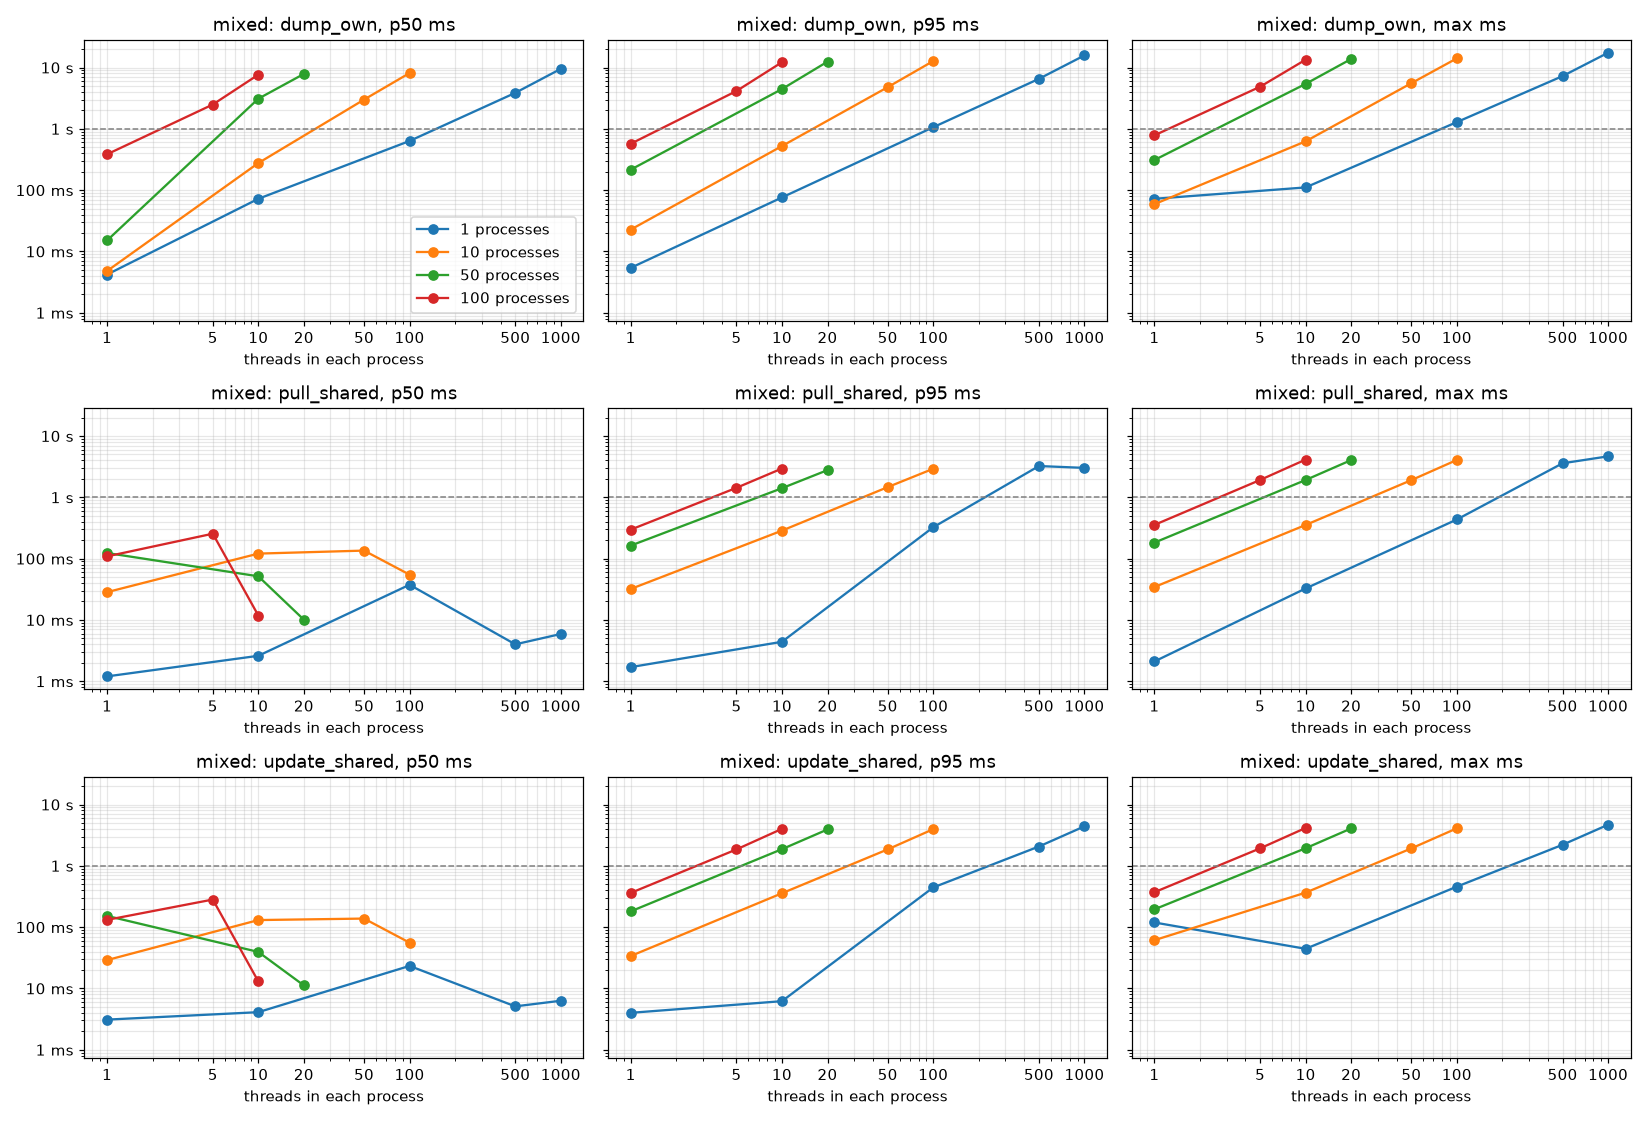
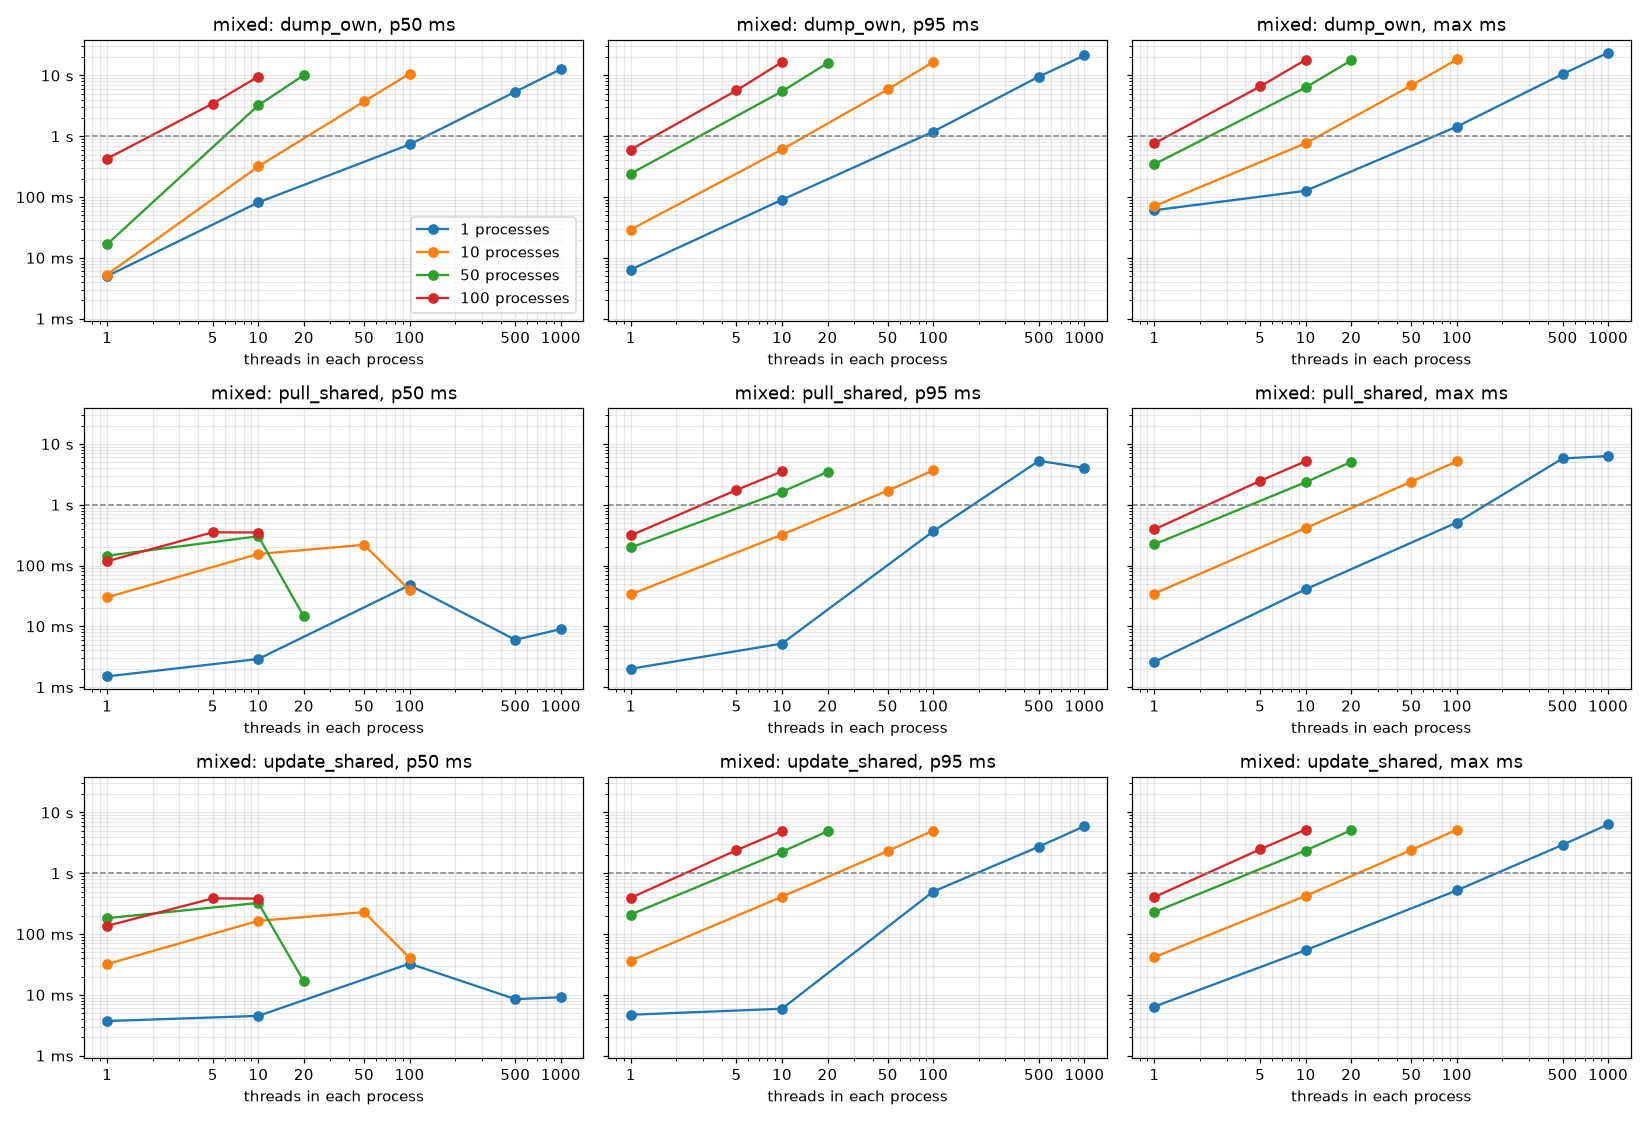
fixing and testing added

diff --git a/docs/source/benchmark.rst b/docs/source/benchmark.rst
@@ -5,7 +5,7 @@ The benchmark starts many processes, each running many threads, that all work on
 Every run checks the repository afterwards, and the integrity column reads OK when nothing was lost or corrupted.
 
 - pyrep 4.0.0, python 3.12.10, Darwin 25.3.0 x86_64
-- 16 logical processors, open file limit 12000
+- 16 logical processors, open file limit 1048576
 - One Repository instance per process; shared record of 2000 items
 - Date: 2026-10-21
 - ops/s counts every timed operation of the run. The latencies are per operation, in milliseconds.
@@ -75,21 +75,21 @@ read_same
 .. csv-table::
     :header: "processes", "threads each", "total threads", "operation", "operations", "wall s", "ops/s", "p50 ms", "p95 ms", "p99 ms", "max ms", "integrity"
 
-    1, 1, 1, pull_shared, 300, 0.7, 424, 1.2, 1.8, 2.1, 2.4, OK
-    1, 10, 10, pull_shared, 300, 0.6, 467, 20.0, 23.4, 25.7, 26.9, OK
-    1, 100, 100, pull_shared, 300, 0.7, 438, 214.3, 229.1, 246.1, 248.7, OK
-    1, 500, 500, pull_shared, 1500, 5.4, 276, 1153.0, 2771.0, 2967.0, 3069.0, OK
-    1, 1000, 1000, pull_shared, 3000, 120.4, 25, 2545.9, 113555.9, 114832.2, 115473.7, OK
-    10, 1, 10, pull_shared, 300, 0.6, 466, 20.4, 22.7, 23.4, 23.9, OK
-    10, 10, 100, pull_shared, 300, 0.6, 468, 204.8, 217.5, 227.6, 232.3, OK
-    10, 50, 500, pull_shared, 1500, 3.4, 436, 1129.4, 1162.0, 1178.7, 1213.4, OK
-    10, 100, 1000, pull_shared, 3000, 7.3, 413, 2397.2, 2450.5, 2459.0, 2527.2, OK
-    50, 1, 50, pull_shared, 300, 0.8, 386, 106.8, 116.1, 221.0, 229.1, OK
-    50, 10, 500, pull_shared, 1500, 3.5, 431, 1132.6, 1175.3, 1178.9, 1192.1, OK
-    50, 20, 1000, pull_shared, 3000, 7.3, 410, 2382.9, 2492.7, 2496.6, 2538.4, OK
-    100, 1, 100, pull_shared, 300, 1.0, 305, 238.2, 451.6, 488.7, 495.4, OK
-    100, 5, 500, pull_shared, 1500, 4.2, 353, 1378.5, 1403.9, 1411.7, 1413.4, OK
-    100, 10, 1000, pull_shared, 3000, 8.4, 357, 2703.2, 2950.8, 2957.1, 2985.2, OK
+    1, 1, 1, pull_shared, 300, 0.7, 406, 1.2, 1.9, 3.4, 7.6, OK
+    1, 10, 10, pull_shared, 300, 0.6, 477, 19.5, 25.4, 26.4, 26.6, OK
+    1, 100, 100, pull_shared, 300, 0.6, 518, 179.1, 195.5, 216.5, 223.7, OK
+    1, 500, 500, pull_shared, 1500, 4.9, 308, 950.5, 2793.3, 2969.8, 3052.0, OK
+    1, 1000, 1000, pull_shared, 3000, 95.3, 31, 2364.4, 89056.5, 90237.0, 90785.1, OK
+    10, 1, 10, pull_shared, 300, 0.5, 625, 14.8, 20.4, 23.0, 23.2, OK
+    10, 10, 100, pull_shared, 300, 0.6, 542, 169.7, 193.3, 196.4, 197.1, OK
+    10, 50, 500, pull_shared, 1500, 2.8, 543, 881.2, 938.5, 983.5, 1011.1, OK
+    10, 100, 1000, pull_shared, 3000, 5.8, 516, 1884.6, 2026.3, 2032.9, 2074.9, OK
+    50, 1, 50, pull_shared, 300, 0.7, 435, 87.0, 109.7, 217.4, 225.3, OK
+    50, 10, 500, pull_shared, 1500, 3.0, 504, 967.6, 1000.4, 1006.6, 1021.7, OK
+    50, 20, 1000, pull_shared, 3000, 6.2, 480, 2055.3, 2107.0, 2117.2, 2119.6, OK
+    100, 1, 100, pull_shared, 300, 0.9, 325, 199.2, 441.4, 495.2, 502.7, OK
+    100, 5, 500, pull_shared, 1500, 3.5, 428, 1067.0, 1264.6, 1296.0, 1309.5, OK
+    100, 10, 1000, pull_shared, 3000, 6.4, 472, 1989.6, 2211.8, 2251.4, 2287.2, OK
 
 update_same
 -----------
@@ -101,21 +101,21 @@ update_same
 .. csv-table::
     :header: "processes", "threads each", "total threads", "operation", "operations", "wall s", "ops/s", "p50 ms", "p95 ms", "p99 ms", "max ms", "integrity"
 
-    1, 1, 1, update_shared, 300, 1.5, 197, 3.9, 4.5, 5.0, 6.0, OK
-    1, 10, 10, update_shared, 300, 1.4, 220, 44.2, 45.8, 46.6, 48.5, OK
-    1, 100, 100, update_shared, 300, 1.4, 213, 421.9, 458.5, 488.4, 519.8, OK
-    1, 500, 500, update_shared, 1500, 10.8, 139, 2223.2, 5392.2, 5976.6, 6572.2, OK
-    1, 1000, 1000, update_shared, 3000, 74.4, 40, 4813.6, 60520.6, 63253.5, 65637.0, OK
-    10, 1, 10, update_shared, 300, 1.3, 227, 42.6, 46.3, 47.8, 48.6, OK
-    10, 10, 100, update_shared, 300, 1.2, 245, 392.7, 427.4, 430.6, 436.5, OK
-    10, 50, 500, update_shared, 1500, 6.1, 246, 1965.0, 2157.6, 2167.1, 2244.0, OK
-    10, 100, 1000, update_shared, 3000, 12.4, 241, 3963.1, 4477.8, 4493.2, 4529.6, OK
-    50, 1, 50, update_shared, 300, 1.4, 211, 219.4, 287.7, 302.4, 303.9, OK
-    50, 10, 500, update_shared, 1500, 6.8, 220, 2178.7, 2483.9, 2486.3, 2489.7, OK
-    50, 20, 1000, update_shared, 3000, 14.3, 209, 4746.3, 4982.2, 4991.0, 5016.6, OK
-    100, 1, 100, update_shared, 300, 1.8, 168, 528.6, 669.5, 699.9, 707.1, OK
-    100, 5, 500, update_shared, 1500, 8.4, 179, 2676.6, 3061.0, 3064.2, 3066.3, OK
-    100, 10, 1000, update_shared, 3000, 16.0, 187, 5038.1, 6094.2, 6135.0, 6146.7, OK
+    1, 1, 1, update_shared, 300, 1.2, 253, 3.0, 3.8, 4.9, 5.3, OK
+    1, 10, 10, update_shared, 300, 1.2, 259, 36.8, 44.7, 46.5, 46.8, OK
+    1, 100, 100, update_shared, 300, 1.2, 252, 355.6, 388.5, 392.1, 397.6, OK
+    1, 500, 500, update_shared, 1500, 7.7, 194, 2065.7, 2927.2, 3325.9, 3673.4, OK
+    1, 1000, 1000, update_shared, 3000, 70.2, 43, 4743.4, 56569.7, 59534.7, 61731.4, OK
+    10, 1, 10, update_shared, 300, 1.2, 243, 40.0, 43.2, 44.5, 44.7, OK
+    10, 10, 100, update_shared, 300, 1.2, 257, 374.9, 410.2, 414.1, 419.4, OK
+    10, 50, 500, update_shared, 1500, 5.9, 255, 1928.4, 2104.2, 2105.9, 2107.1, OK
+    10, 100, 1000, update_shared, 3000, 12.8, 234, 4192.4, 4652.3, 4656.3, 4660.2, OK
+    50, 1, 50, update_shared, 300, 1.5, 201, 229.7, 283.7, 298.3, 299.2, OK
+    50, 10, 500, update_shared, 1500, 6.7, 225, 2125.4, 2412.6, 2416.9, 2421.4, OK
+    50, 20, 1000, update_shared, 3000, 12.3, 245, 3886.9, 4613.6, 4635.5, 4649.3, OK
+    100, 1, 100, update_shared, 300, 1.6, 188, 443.1, 657.4, 697.6, 703.5, OK
+    100, 5, 500, update_shared, 1500, 7.2, 209, 2350.4, 2588.3, 2601.3, 2602.3, OK
+    100, 10, 1000, update_shared, 3000, 13.5, 223, 4272.3, 5093.4, 5112.2, 5137.0, OK
 
 read_own
 --------
@@ -127,21 +127,21 @@ read_own
 .. csv-table::
     :header: "processes", "threads each", "total threads", "operation", "operations", "wall s", "ops/s", "p50 ms", "p95 ms", "p99 ms", "max ms", "integrity"
 
-    1, 1, 1, pull_own, 300, 0.5, 628, 1.3, 1.5, 1.6, 2.2, OK
-    1, 10, 10, pull_own, 300, 0.4, 799, 11.9, 13.8, 14.5, 15.1, OK
-    1, 100, 100, pull_own, 300, 0.4, 840, 107.0, 140.8, 147.7, 152.6, OK
-    1, 500, 500, pull_own, 1500, 56.8, 26, 17258.2, 28252.3, 32177.9, 35703.2, OK
-    1, 1000, 1000, pull_own, 3000, 522.5, 6, 162009.6, 284220.1, 289661.5, 290294.5, OK
-    10, 1, 10, pull_own, 300, 0.1, 3376, 2.5, 2.8, 2.9, 3.0, OK
-    10, 10, 100, pull_own, 300, 0.1, 2966, 28.6, 41.3, 46.3, 50.0, OK
-    10, 50, 500, pull_own, 1500, 0.5, 3149, 132.1, 193.7, 222.2, 277.7, OK
-    10, 100, 1000, pull_own, 3000, 0.9, 3341, 244.8, 357.0, 399.6, 432.0, OK
-    50, 1, 50, pull_own, 300, 0.1, 4440, 9.9, 13.0, 14.6, 16.3, OK
-    50, 10, 500, pull_own, 1500, 0.6, 2715, 98.5, 213.3, 225.2, 235.6, OK
-    50, 20, 1000, pull_own, 3000, 0.9, 3206, 200.0, 360.0, 382.1, 425.6, OK
-    100, 1, 100, pull_own, 300, 0.1, 5353, 15.6, 21.6, 22.5, 23.0, OK
-    100, 5, 500, pull_own, 1500, 0.7, 2208, 111.8, 377.6, 422.9, 433.2, OK
-    100, 10, 1000, pull_own, 3000, 1.0, 2948, 291.6, 346.9, 356.2, 382.6, OK
+    1, 1, 1, pull_own, 300, 0.4, 719, 1.1, 1.3, 1.5, 2.1, OK
+    1, 10, 10, pull_own, 300, 0.3, 883, 10.7, 12.9, 14.2, 15.0, OK
+    1, 100, 100, pull_own, 300, 0.3, 1009, 90.4, 112.2, 119.0, 122.9, OK
+    1, 500, 500, pull_own, 1500, 33.0, 45, 9789.9, 21994.6, 24390.8, 24894.5, OK
+    1, 1000, 1000, pull_own, 3000, 526.4, 6, 169645.8, 236656.8, 245329.2, 280236.1, OK
+    10, 1, 10, pull_own, 300, 0.1, 2726, 3.0, 4.1, 4.8, 5.0, OK
+    10, 10, 100, pull_own, 300, 0.1, 3275, 26.0, 34.9, 42.3, 45.9, OK
+    10, 50, 500, pull_own, 1500, 0.5, 3190, 132.4, 174.5, 204.7, 244.7, OK
+    10, 100, 1000, pull_own, 3000, 1.0, 2999, 272.3, 402.0, 450.4, 481.3, OK
+    50, 1, 50, pull_own, 300, 0.1, 3156, 13.4, 18.1, 19.4, 19.9, OK
+    50, 10, 500, pull_own, 1500, 0.6, 2372, 113.3, 190.8, 236.8, 289.9, OK
+    50, 20, 1000, pull_own, 3000, 0.9, 3178, 205.7, 344.7, 389.4, 435.3, OK
+    100, 1, 100, pull_own, 300, 0.1, 5360, 14.8, 20.1, 21.4, 21.7, OK
+    100, 5, 500, pull_own, 1500, 0.9, 1598, 192.5, 326.5, 333.8, 336.1, OK
+    100, 10, 1000, pull_own, 3000, 4.6, 657, 1301.2, 1591.6, 1626.5, 1667.0, OK
 
 update_own
 ----------
@@ -153,21 +153,21 @@ update_own
 .. csv-table::
     :header: "processes", "threads each", "total threads", "operation", "operations", "wall s", "ops/s", "p50 ms", "p95 ms", "p99 ms", "max ms", "integrity"
 
-    1, 1, 1, update_own, 300, 1.5, 197, 4.6, 6.1, 7.9, 8.2, OK
-    1, 10, 10, update_own, 300, 0.7, 443, 21.8, 24.5, 26.5, 27.7, OK
-    1, 100, 100, update_own, 300, 0.6, 476, 195.1, 231.3, 253.0, 264.1, OK
-    1, 500, 500, update_own, 1500, 147.6, 10, 48594.3, 73865.8, 74456.1, 74708.6, OK
-    1, 1000, 1000, update_own, 3000, 1125.0, 3, 379908.9, 430161.9, 471993.7, 524822.5, OK
-    10, 1, 10, update_own, 300, 0.3, 1138, 7.1, 12.4, 36.9, 37.6, OK
-    10, 10, 100, update_own, 300, 0.2, 1376, 60.4, 100.3, 116.8, 128.9, OK
-    10, 50, 500, update_own, 1500, 7.7, 194, 2672.7, 4605.3, 4626.8, 4650.5, OK
-    10, 100, 1000, update_own, 3000, 22.8, 132, 916.7, 19388.1, 19514.3, 19569.3, OK
-    50, 1, 50, update_own, 300, 0.2, 1284, 32.6, 59.1, 68.6, 73.0, OK
-    50, 10, 500, update_own, 1500, 3.3, 450, 294.2, 2810.8, 2872.4, 2915.4, OK
-    50, 20, 1000, update_own, 3000, 21.2, 142, 549.3, 20372.4, 20858.3, 20958.5, OK
-    100, 1, 100, update_own, 300, 0.5, 581, 164.7, 307.7, 322.0, 327.2, OK
-    100, 5, 500, update_own, 1500, 7.1, 210, 1392.2, 6512.2, 6586.7, 7019.4, OK
-    100, 10, 1000, update_own, 3000, 19.1, 157, 2979.6, 15300.3, 15456.6, 15554.8, OK
+    1, 1, 1, update_own, 300, 5.4, 56, 15.9, 23.1, 37.5, 38.1, OK
+    1, 10, 10, update_own, 300, 3.0, 99, 94.8, 131.2, 142.8, 191.9, OK
+    1, 100, 100, update_own, 300, 2.6, 115, 798.3, 951.4, 1045.0, 1071.7, OK
+    1, 500, 500, update_own, 1500, 137.3, 11, 48961.5, 82703.4, 100317.5, 123935.4, OK
+    1, 1000, 1000, update_own, 3000, 33.1, 91, 7932.1, 16877.4, 17049.0, 19081.4, OK
+    10, 1, 10, update_own, 300, 0.4, 759, 12.2, 14.4, 15.9, 16.3, OK
+    10, 10, 100, update_own, 300, 0.7, 446, 180.2, 363.6, 382.3, 385.3, OK
+    10, 50, 500, update_own, 1500, 13.2, 114, 3465.9, 7106.0, 7145.3, 7170.1, OK
+    10, 100, 1000, update_own, 3000, 46.8, 64, 5181.9, 39582.7, 39680.1, 39758.3, OK
+    50, 1, 50, update_own, 300, 0.4, 837, 50.6, 78.5, 93.6, 100.4, OK
+    50, 10, 500, update_own, 1500, 6.9, 217, 935.0, 5982.4, 6286.7, 6675.2, OK
+    50, 20, 1000, update_own, 3000, 32.4, 93, 2179.1, 27778.5, 27869.4, 27925.7, OK
+    100, 1, 100, update_own, 300, 0.6, 510, 97.2, 399.0, 423.6, 438.9, OK
+    100, 5, 500, update_own, 1500, 11.1, 135, 1396.2, 9717.8, 10151.7, 10625.3, OK
+    100, 10, 1000, update_own, 3000, 32.6, 92, 5931.3, 25649.5, 25783.5, 25851.7, OK
 
 create_unique
 -------------
@@ -179,21 +179,21 @@ create_unique
 .. csv-table::
     :header: "processes", "threads each", "total threads", "operation", "operations", "wall s", "ops/s", "p50 ms", "p95 ms", "p99 ms", "max ms", "integrity"
 
-    1, 1, 1, dump_own, 300, 1.6, 182, 5.0, 6.8, 7.9, 29.8, OK
-    1, 10, 10, dump_own, 300, 1.5, 195, 48.9, 59.1, 81.1, 90.7, OK
-    1, 100, 100, dump_own, 300, 2.0, 151, 525.3, 879.5, 936.2, 957.2, OK
-    1, 500, 500, dump_own, 1500, 16.2, 93, 3625.4, 8558.7, 9074.3, 9487.4, OK
-    1, 1000, 1000, dump_own, 3000, 101.9, 29, 8768.1, 78490.8, 81682.4, 83639.9, OK
-    10, 1, 10, dump_own, 300, 1.4, 208, 46.7, 50.1, 69.2, 78.9, OK
-    10, 10, 100, dump_own, 300, 1.8, 171, 483.7, 755.9, 816.2, 827.0, OK
-    10, 50, 500, dump_own, 1500, 11.8, 127, 3428.8, 4934.7, 5344.8, 5430.9, OK
-    10, 100, 1000, dump_own, 3000, 29.1, 103, 8270.6, 12768.3, 13755.2, 13966.6, OK
-    50, 1, 50, dump_own, 300, 1.7, 177, 232.3, 353.5, 407.5, 416.4, OK
-    50, 10, 500, dump_own, 1500, 10.9, 138, 3067.0, 4539.0, 4896.2, 4960.5, OK
-    50, 20, 1000, dump_own, 3000, 27.2, 110, 7750.7, 11500.9, 12451.5, 12669.6, OK
-    100, 1, 100, dump_own, 300, 2.2, 135, 598.5, 823.1, 891.0, 904.8, OK
-    100, 5, 500, dump_own, 1500, 11.2, 134, 3193.3, 4591.2, 4988.0, 5080.0, OK
-    100, 10, 1000, dump_own, 3000, 27.4, 109, 7729.5, 11522.6, 12397.4, 12622.3, OK
+    1, 1, 1, dump_own, 300, 2.0, 152, 6.2, 7.0, 7.5, 11.3, OK
+    1, 10, 10, dump_own, 300, 2.0, 148, 63.8, 83.2, 111.2, 123.0, OK
+    1, 100, 100, dump_own, 300, 2.4, 124, 658.0, 1033.1, 1108.2, 1125.2, OK
+    1, 500, 500, dump_own, 1500, 35.9, 42, 4222.9, 25663.5, 26863.2, 27819.0, OK
+    1, 1000, 1000, dump_own, 3000, 35.9, 84, 10181.5, 15128.5, 16172.4, 16407.7, OK
+    10, 1, 10, dump_own, 300, 1.7, 172, 49.2, 67.9, 236.9, 237.8, OK
+    10, 10, 100, dump_own, 300, 1.9, 157, 517.5, 812.4, 874.4, 884.6, OK
+    10, 50, 500, dump_own, 1500, 12.3, 122, 3562.5, 5068.5, 5498.8, 5616.7, OK
+    10, 100, 1000, dump_own, 3000, 33.3, 90, 9648.5, 14162.6, 15275.8, 15528.9, OK
+    50, 1, 50, dump_own, 300, 1.9, 158, 256.0, 416.7, 480.8, 491.8, OK
+    50, 10, 500, dump_own, 1500, 12.9, 116, 3758.3, 5420.1, 5849.2, 5956.6, OK
+    50, 20, 1000, dump_own, 3000, 31.9, 94, 9302.9, 13687.6, 14826.4, 15101.7, OK
+    100, 1, 100, dump_own, 300, 2.6, 115, 652.4, 1031.9, 1108.0, 1120.5, OK
+    100, 5, 500, dump_own, 1500, 14.4, 104, 4043.7, 6110.2, 6579.8, 6688.4, OK
+    100, 10, 1000, dump_own, 3000, 32.6, 92, 9092.8, 14512.2, 15594.9, 15853.4, OK
 
 mixed
 -----
@@ -205,48 +205,48 @@ mixed
 .. csv-table::
     :header: "processes", "threads each", "total threads", "operation", "operations", "wall s", "ops/s", "p50 ms", "p95 ms", "p99 ms", "max ms", "integrity"
 
-    1, 1, 1, dump_own, 300, 3.4, 264, 4.2, 5.4, 6.5, 72.2, OK
-    1, 1, 1, pull_shared, 300, 3.4, 264, 1.2, 1.7, 2.0, 2.1, OK
-    1, 1, 1, update_shared, 300, 3.4, 264, 3.1, 4.0, 4.5, 119.1, OK
-    1, 10, 10, dump_own, 300, 2.5, 363, 72.2, 76.0, 84.4, 110.7, OK
-    1, 10, 10, pull_shared, 300, 2.5, 363, 2.6, 4.4, 29.1, 32.6, OK
-    1, 10, 10, update_shared, 300, 2.5, 363, 4.1, 6.2, 40.4, 44.3, OK
-    1, 100, 100, dump_own, 300, 2.9, 315, 633.7, 1061.4, 1255.4, 1287.0, OK
-    1, 100, 100, pull_shared, 300, 2.9, 315, 37.5, 324.8, 414.5, 434.9, OK
-    1, 100, 100, update_shared, 300, 2.9, 315, 23.3, 443.9, 456.5, 457.6, OK
-    1, 500, 500, dump_own, 1500, 18.2, 247, 3860.1, 6538.4, 7098.2, 7245.7, OK
-    1, 500, 500, pull_shared, 1500, 18.2, 247, 4.0, 3238.8, 3496.7, 3591.6, OK
-    1, 500, 500, update_shared, 1500, 18.2, 247, 5.1, 2066.4, 2185.8, 2205.4, OK
-    1, 1000, 1000, dump_own, 3000, 40.0, 225, 9508.3, 15764.8, 17146.4, 17431.4, OK
-    1, 1000, 1000, pull_shared, 3000, 40.0, 225, 5.9, 3020.7, 4045.9, 4662.0, OK
-    1, 1000, 1000, update_shared, 3000, 40.0, 225, 6.3, 4409.4, 4592.2, 4685.3, OK
-    10, 1, 10, dump_own, 300, 2.0, 452, 4.8, 22.7, 43.5, 59.0, OK
-    10, 1, 10, pull_shared, 300, 2.0, 452, 28.4, 32.0, 33.5, 34.4, OK
-    10, 1, 10, update_shared, 300, 2.0, 452, 29.0, 33.8, 58.9, 61.2, OK
-    10, 10, 100, dump_own, 300, 2.1, 438, 276.3, 523.7, 615.2, 625.2, OK
-    10, 10, 100, pull_shared, 300, 2.1, 438, 120.8, 286.3, 337.1, 354.1, OK
-    10, 10, 100, update_shared, 300, 2.1, 438, 130.4, 356.9, 363.6, 365.3, OK
-    10, 50, 500, dump_own, 1500, 13.5, 334, 2995.8, 4778.1, 5430.2, 5550.2, OK
-    10, 50, 500, pull_shared, 1500, 13.5, 334, 135.2, 1466.5, 1737.9, 1907.3, OK
-    10, 50, 500, update_shared, 1500, 13.5, 334, 137.9, 1854.3, 1910.9, 1924.1, OK
-    10, 100, 1000, dump_own, 3000, 32.8, 275, 8122.9, 12747.4, 13843.0, 14110.2, OK
-    10, 100, 1000, pull_shared, 3000, 32.8, 275, 54.8, 2922.7, 3560.1, 4069.6, OK
-    10, 100, 1000, update_shared, 3000, 32.8, 275, 55.8, 3959.9, 4072.3, 4091.4, OK
-    50, 1, 50, dump_own, 300, 2.1, 438, 15.1, 215.7, 299.7, 309.5, OK
-    50, 1, 50, pull_shared, 300, 2.1, 438, 123.5, 163.2, 168.4, 182.3, OK
-    50, 1, 50, update_shared, 300, 2.1, 438, 152.4, 180.8, 192.9, 195.0, OK
-    50, 10, 500, dump_own, 1500, 13.2, 340, 3098.7, 4452.1, 5222.6, 5406.9, OK
-    50, 10, 500, pull_shared, 1500, 13.2, 340, 51.5, 1409.6, 1756.1, 1915.9, OK
-    50, 10, 500, update_shared, 1500, 13.2, 340, 39.4, 1869.1, 1922.6, 1935.3, OK
-    50, 20, 1000, dump_own, 3000, 32.1, 280, 7860.6, 12458.5, 13511.9, 13770.6, OK
-    50, 20, 1000, pull_shared, 3000, 32.1, 280, 10.1, 2778.7, 3565.1, 4050.2, OK
-    50, 20, 1000, update_shared, 3000, 32.1, 280, 11.2, 3920.1, 4038.9, 4072.4, OK
-    100, 1, 100, dump_own, 300, 2.5, 360, 384.6, 570.8, 752.0, 782.3, OK
-    100, 1, 100, pull_shared, 300, 2.5, 360, 108.8, 297.2, 352.3, 354.7, OK
-    100, 1, 100, update_shared, 300, 2.5, 360, 131.3, 361.4, 369.9, 370.9, OK
-    100, 5, 500, dump_own, 1500, 12.5, 360, 2491.5, 4135.5, 4737.1, 4858.8, OK
-    100, 5, 500, pull_shared, 1500, 12.5, 360, 255.0, 1428.6, 1770.4, 1918.4, OK
-    100, 5, 500, update_shared, 1500, 12.5, 360, 281.8, 1851.9, 1914.2, 1927.3, OK
-    100, 10, 1000, dump_own, 3000, 31.8, 283, 7644.5, 12203.3, 13174.0, 13417.0, OK
-    100, 10, 1000, pull_shared, 3000, 31.8, 283, 11.8, 2949.9, 3621.3, 4125.9, OK
-    100, 10, 1000, update_shared, 3000, 31.8, 283, 13.0, 4010.9, 4121.2, 4147.5, OK
+    1, 1, 1, dump_own, 300, 4.0, 226, 5.0, 6.4, 9.2, 60.6, OK
+    1, 1, 1, pull_shared, 300, 4.0, 226, 1.5, 2.0, 2.4, 2.6, OK
+    1, 1, 1, update_shared, 300, 4.0, 226, 3.7, 4.7, 5.7, 6.4, OK
+    1, 10, 10, dump_own, 300, 2.8, 319, 81.6, 90.1, 93.5, 126.5, OK
+    1, 10, 10, pull_shared, 300, 2.8, 319, 2.9, 5.2, 32.4, 40.6, OK
+    1, 10, 10, update_shared, 300, 2.8, 319, 4.5, 5.9, 50.4, 54.2, OK
+    1, 100, 100, dump_own, 300, 3.3, 276, 732.5, 1192.5, 1413.0, 1438.8, OK
+    1, 100, 100, pull_shared, 300, 3.3, 276, 47.5, 365.3, 488.2, 509.6, OK
+    1, 100, 100, update_shared, 300, 3.3, 276, 32.6, 499.9, 521.1, 523.1, OK
+    1, 500, 500, dump_own, 1500, 26.3, 171, 5389.7, 9563.3, 10343.7, 10531.9, OK
+    1, 500, 500, pull_shared, 1500, 26.3, 171, 6.0, 5281.9, 5566.7, 5765.8, OK
+    1, 500, 500, update_shared, 1500, 26.3, 171, 8.5, 2733.8, 2898.5, 2930.1, OK
+    1, 1000, 1000, dump_own, 3000, 54.8, 164, 12700.7, 21409.5, 23288.9, 23653.4, OK
+    1, 1000, 1000, pull_shared, 3000, 54.8, 164, 9.0, 4026.5, 5500.5, 6326.6, OK
+    1, 1000, 1000, update_shared, 3000, 54.8, 164, 9.1, 5957.5, 6239.1, 6352.4, OK
+    10, 1, 10, dump_own, 300, 2.1, 425, 5.3, 29.2, 47.0, 70.9, OK
+    10, 1, 10, pull_shared, 300, 2.1, 425, 30.0, 33.5, 34.5, 34.6, OK
+    10, 1, 10, update_shared, 300, 2.1, 425, 32.0, 36.5, 40.1, 41.7, OK
+    10, 10, 100, dump_own, 300, 2.4, 372, 318.3, 605.2, 752.7, 764.7, OK
+    10, 10, 100, pull_shared, 300, 2.4, 372, 155.1, 322.0, 396.3, 413.7, OK
+    10, 10, 100, update_shared, 300, 2.4, 372, 165.0, 411.1, 422.0, 423.9, OK
+    10, 50, 500, dump_own, 1500, 16.8, 268, 3739.0, 5900.5, 6706.6, 6846.4, OK
+    10, 50, 500, pull_shared, 1500, 16.8, 268, 219.0, 1704.8, 2223.6, 2395.2, OK
+    10, 50, 500, update_shared, 1500, 16.8, 268, 229.2, 2323.4, 2392.7, 2411.9, OK
+    10, 100, 1000, dump_own, 3000, 42.8, 210, 10693.1, 16666.3, 18054.8, 18414.6, OK
+    10, 100, 1000, pull_shared, 3000, 42.8, 210, 39.5, 3691.5, 4568.5, 5186.7, OK
+    10, 100, 1000, update_shared, 3000, 42.8, 210, 40.8, 5036.4, 5193.8, 5223.1, OK
+    50, 1, 50, dump_own, 300, 2.5, 366, 16.7, 242.8, 341.7, 347.5, OK
+    50, 1, 50, pull_shared, 300, 2.5, 366, 145.0, 198.1, 212.3, 223.0, OK
+    50, 1, 50, update_shared, 300, 2.5, 366, 182.2, 209.3, 222.2, 229.6, OK
+    50, 10, 500, dump_own, 1500, 15.7, 286, 3226.5, 5470.3, 6204.4, 6350.9, OK
+    50, 10, 500, pull_shared, 1500, 15.7, 286, 303.3, 1633.3, 2159.7, 2346.4, OK
+    50, 10, 500, update_shared, 1500, 15.7, 286, 324.8, 2244.9, 2342.4, 2366.1, OK
+    50, 20, 1000, dump_own, 3000, 40.7, 221, 10112.1, 15958.8, 17371.0, 17691.6, OK
+    50, 20, 1000, pull_shared, 3000, 40.7, 221, 14.5, 3461.0, 4420.3, 5069.5, OK
+    50, 20, 1000, update_shared, 3000, 40.7, 221, 16.7, 4903.2, 5058.9, 5099.3, OK
+    100, 1, 100, dump_own, 300, 2.7, 334, 428.1, 604.4, 749.1, 763.0, OK
+    100, 1, 100, pull_shared, 300, 2.7, 334, 117.6, 313.1, 376.7, 392.7, OK
+    100, 1, 100, update_shared, 300, 2.7, 334, 136.1, 394.1, 405.7, 407.0, OK
+    100, 5, 500, dump_own, 1500, 16.7, 270, 3445.7, 5668.3, 6456.3, 6582.6, OK
+    100, 5, 500, pull_shared, 1500, 16.7, 270, 352.4, 1745.8, 2261.5, 2469.0, OK
+    100, 5, 500, update_shared, 1500, 16.7, 270, 385.8, 2393.4, 2463.5, 2473.1, OK
+    100, 10, 1000, dump_own, 3000, 41.7, 216, 9598.1, 16596.2, 17846.3, 18095.5, OK
+    100, 10, 1000, pull_shared, 3000, 41.7, 216, 349.2, 3543.8, 4531.5, 5189.0, OK
+    100, 10, 1000, update_shared, 3000, 41.7, 216, 381.7, 4970.8, 5169.2, 5217.3, OK
